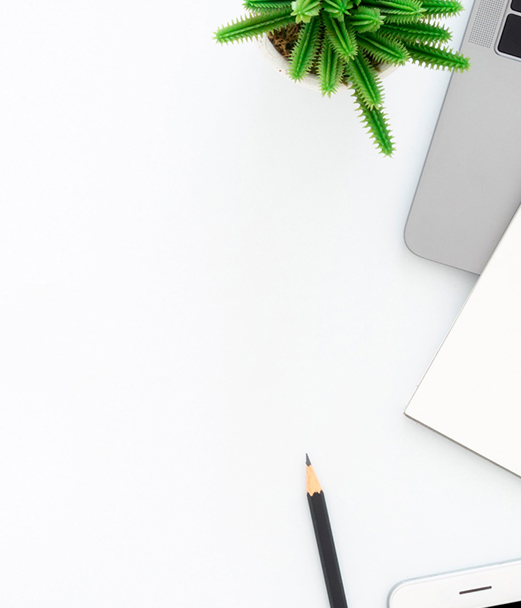
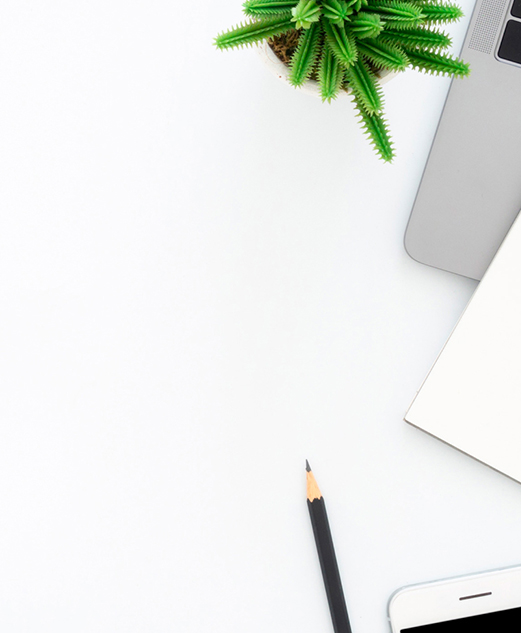
Заканчивает секцию материалов

diff --git a/styles.css b/styles.css
@@ -65,11 +65,6 @@ img {
   height: auto;
 }
 
-section{
-  padding-top: 39px;
-  padding-bottom: 50px;
-}
-
 .visually-hidden {
   position: absolute;
   width: 1px;
@@ -846,17 +841,18 @@ background-color:#E2E3E5;
 height: 1px;
 text-align: left;
 }
+.literature{
+margin-bottom: 36px;
+}
 .materials-list .item{
 list-style-type: decimal;
 font-weight: 500;
 letter-spacing: 0.02em;
 }
-
 .materials-list .text{
 font-weight: 500;
 letter-spacing: 0.02em;
 }
-
 .materials-list .link{
 text-decoration: underline;
 }
@@ -878,7 +874,6 @@ margin-bottom: 10px;
 .materials-list{
 padding-right: 95px;
 padding-left: 13px;
-margin-bottom: 36px;
 }
 .materials-list .item{
 font-size: 10px;
@@ -893,38 +888,47 @@ line-height: 1.6;
 
 @media screen and (min-width: 768px) {
 .materials{
-padding: 119px 115px;
+padding: 119px 115px 472px 115px;
 background-image: url(./img/cactus_tabl.jpg);
+background-size: cover;
 }
 .materials-title{
 font-size: 22px;
 line-height: 1.36;
-margin-bottom: 25px;
+margin-bottom: 22px;
 }
 .materials-line{
-width: 322px;
+width: 320px;
 margin-bottom: 25px;
 }
 .materials-list{
 padding-right: 95px;
 padding-left: 13px;
-margin-bottom: 45px;
-
+margin-left: 60px;
 }
+
 .materials-list .item{
-font-size: 10px;
-line-height: 1.6;
+font-size: 14px;
+line-height: 1.57;
+padding-right: 60px;
 }
 
 .materials-list .text{
-font-size: 10px;
-line-height: 1.6;
-}
- 
+font-size: 14px;
+line-height: 1.57;
+} 
 }
 
 @media screen and (min-width: 1280px) {
-  
+.materials{
+padding: 98px 190px 262px 190px;
+background-image: url(./img/cactus_desc.jpg);
+background-size: cover;
+}
+
+.materials-list .item{
+padding-right: 420px;
+}
 }
 
 
@@ -933,7 +937,7 @@ line-height: 1.6;
   background-color: var(--blueBGColor);
   text-align: center;  
   width: 100%;
-}
+  }
  
 .footer-text{
 color: var(--footerTextColor);

diff --git a/go.html b/go.html
@@ -179,7 +179,7 @@
         <section class="materials container">
             <h2 class="materials-title">Useful literature</h2>
             <hr class="materials-line" />
-            <ol class="materials-list">
+            <ol class="materials-list literature">
                 <li class="item">
                     <p class="text">Testing dot.com Savin.</p>
                 </li>
